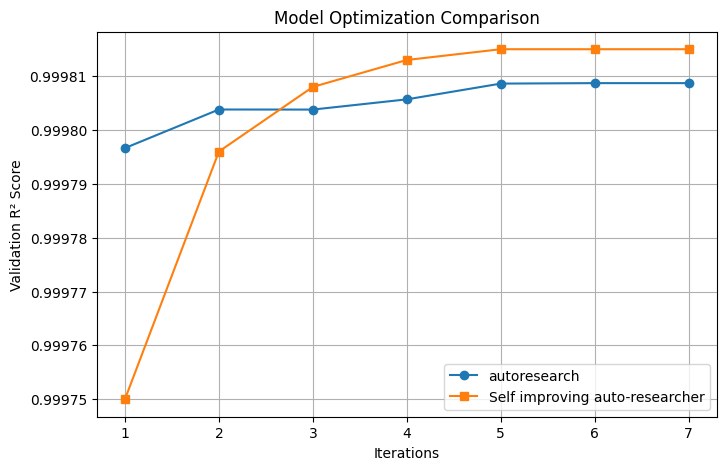
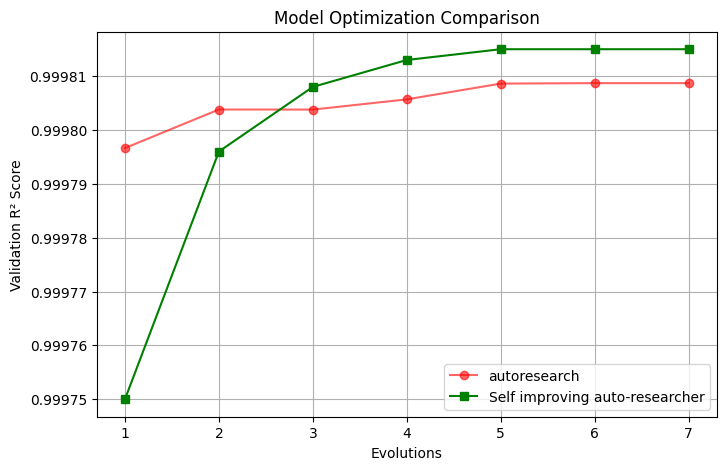
Updated README.md to include a new diagram illustrating the SIA orchestration flow and clarified the role of the Feedback Agent by renaming it to Feedback/Improvement Agent.

diff --git a/README.md b/README.md
@@ -16,12 +16,15 @@ Below are example results showing progressive improvement of SIA on scientific t
 
 ## Overview
 
+<p align="center"><img src="plots/flow.png" alt="SIA orchestration flow: Meta-Agent, Target Agent, and Feedback Agent across generations" width="720"></p>
+<p align="center"><i>Figure: How the orchestrator runs Meta-, Target, and Feedback agents over successive generations.</i></p>
+
 SIA operates by coordinating three main types of AI agents that work together to continuously improve task performance:
 
 ### Glossary
 1. **Meta-Agent**: Reads the task description and generates an initial Target Agent tailored to the task.
 2. **Target Agent**: Attempts to complete the task and records its actions and results.
-3. **Feedback Agent**: Reviews the Target Agent's performance logs, identifies improvements, and updates the Target Agent accordingly.
+3. **Feedback/Improvement Agent**: Reviews the Target Agent's performance logs, identifies improvements, and updates the Target Agent accordingly.
 
 This iterative process allows the system to autonomously refine and enhance its ability to solve scientific tasks.
 
@@ -39,7 +42,7 @@ sia/
 │   ├── _shared/
 │   │   ├── reference_target_agent.py
 │   │   └── sample_agent_execution.json
-│   └── {competition-id}/         # Created by prepare script
+│   └── {task-id}/
 │       ├── data/
 │       │   ├── public/           # Public dataset
 │       │   │   ├── task.md           # Task description
@@ -178,7 +181,7 @@ diff runs/run_1/gen_1/target_agent.py runs/run_1/gen_2/target_agent.py
 Each task directory must follow this structure:
 
 ```
-tasks/{competition-id}/
+tasks/{task-id}/
 ├── data/
 │   ├── public/
 │   │   ├── task.md                    # Task description (orchestrator reads this)
